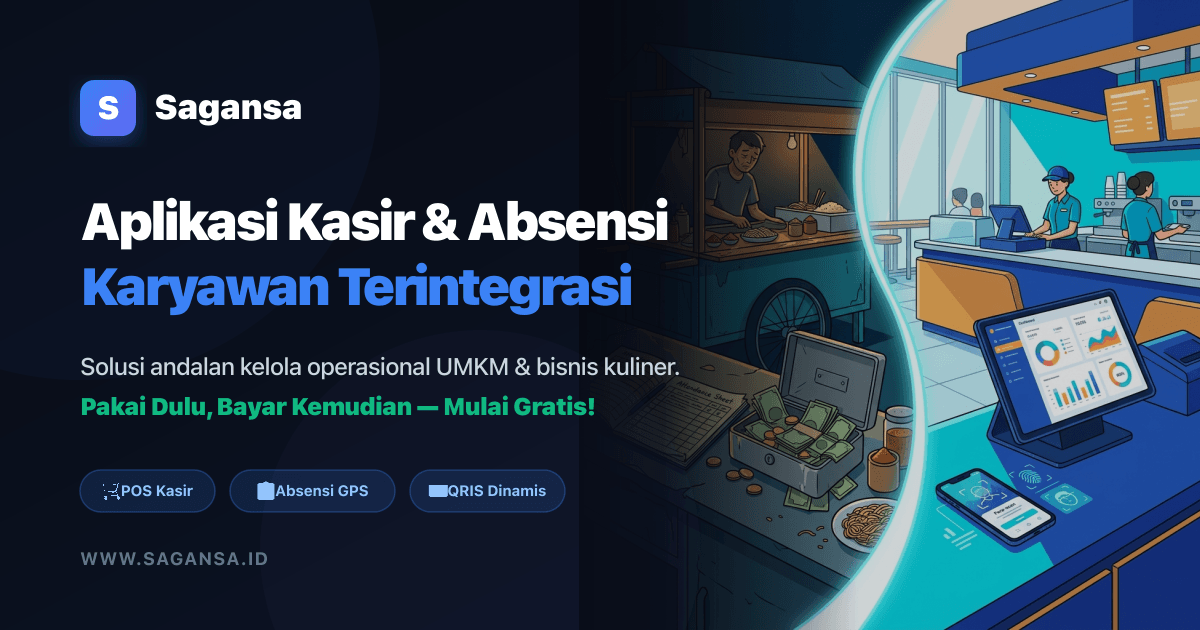
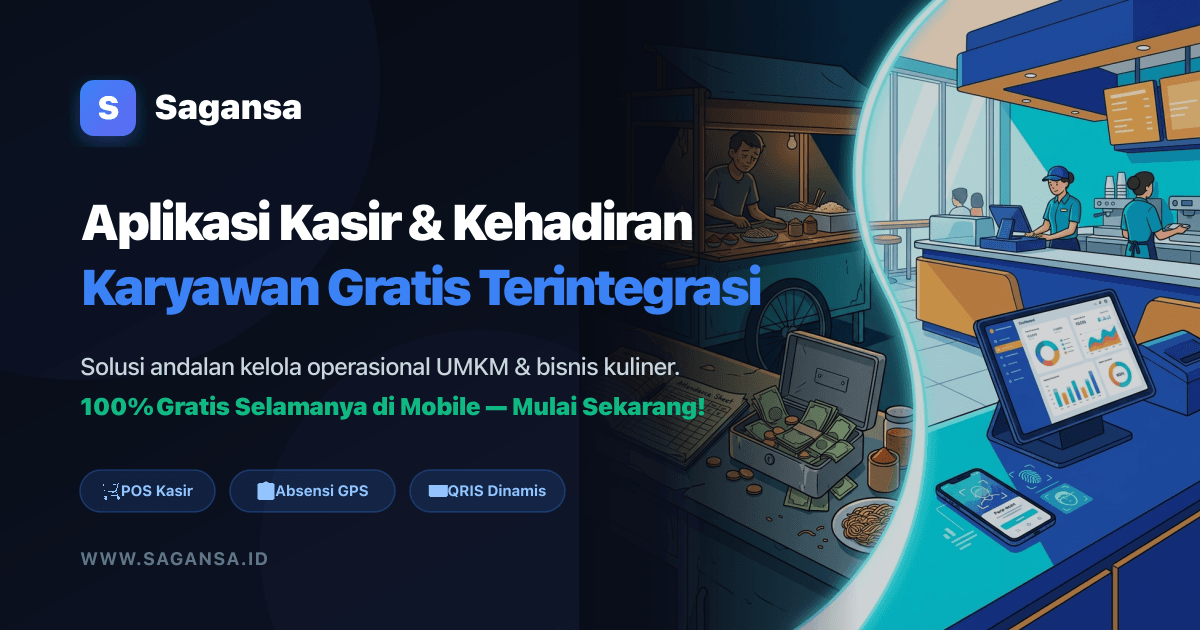
update

Changed region(s): [[0.0925, 0.3016, 0.5858, 0.3921], [0.0925, 0.4222, 0.6475, 0.5127], [0.0617, 0.6333, 0.5858, 0.6635]]

diff --git a/generate_og.js b/generate_og.js
@@ -67,11 +67,11 @@ const svg = `
   </g>
 
   <!-- Headline Utama -->
-  <text x="80" y="240" font-family="system-ui, -apple-system, sans-serif" font-size="52" font-weight="900" fill="#ffffff" letter-spacing="-1.5">
-    Aplikasi Kasir &amp; Absensi
+  <text x="80" y="240" font-family="system-ui, -apple-system, sans-serif" font-size="50" font-weight="900" fill="#ffffff" letter-spacing="-1.5">
+    Aplikasi Kasir &amp; Kehadiran
   </text>
-  <text x="80" y="305" font-family="system-ui, -apple-system, sans-serif" font-size="52" font-weight="900" fill="#3b82f6" letter-spacing="-1.5">
-    Karyawan Terintegrasi
+  <text x="80" y="305" font-family="system-ui, -apple-system, sans-serif" font-size="50" font-weight="900" fill="#3b82f6" letter-spacing="-1.5">
+    Karyawan Gratis Terintegrasi
   </text>
 
   <!-- Sub-headline / Copywriting -->
@@ -79,7 +79,7 @@ const svg = `
     Solusi andalan kelola operasional UMKM &amp; bisnis kuliner.
   </text>
   <text x="80" y="415" font-family="system-ui, -apple-system, sans-serif" font-size="24" font-weight="800" fill="#10b981">
-    Pakai Dulu, Bayar Kemudian — Mulai Gratis!
+    100% Gratis Selamanya di Mobile — Mulai Sekarang!
   </text>
 
   <!-- Fitur Tags / Badges -->

diff --git a/resources/views/welcome/partials/_hero.blade.php b/resources/views/welcome/partials/_hero.blade.php
@@ -6,11 +6,10 @@
                 POS & Attendance Terintegrasi
             </div>
             <h1>
-                Kelola Bisnis Anda dengan <span class="gradient-text">Satu Platform</span>
+                Aplikasi Kasir dan Kehadiran Karyawan <span class="gradient-text">Gratis Terintegrasi</span>
             </h1>
             <p>
-                Sagansa menggabungkan sistem kasir modern dengan manajemen kehadiran karyawan.
-                <strong>Pakai dulu, bayar kemudian</strong> — gratis untuk penggunaan awal, serta aplikasi kasir & absensi tetap berjalan normal di lapangan meskipun pembayaran tertunda.
+                Sagansa menggabungkan sistem kasir POS modern dengan manajemen absensi kehadiran karyawan 100% gratis di mobile. Kelola transaksi toko dan kehadiran SDM dalam satu platform terpadu.
             </p>
             <div class="hero-buttons">
                 <a href="https://ops.sagansa.id/id/auth/register" target="_blank" class="btn btn-primary">

diff --git a/og_generate.php b/og_generate.php
@@ -66,8 +66,8 @@ $font = '/System/Library/Fonts/NewYork.ttf';
 if (!file_exists($font)) { $font = '/System/Library/Fonts/Geneva.ttf'; }
 
 $title = 'Sagansa POS & Attendance';
-$sub   = 'Aplikasi Kasir & Absensi Karyawan Terintegrasi';
-$sub2  = 'Pakai dulu, bayar kemudian - untuk UMKM Indonesia';
+$sub   = 'Aplikasi Kasir & Kehadiran Karyawan Gratis Terintegrasi';
+$sub2  = 'Solusi andalan kelola operasional UMKM & bisnis kuliner';
 $badge = 'QRIS  -  Multi-channel  -  Attendance';
 
 if (file_exists($font)) {
